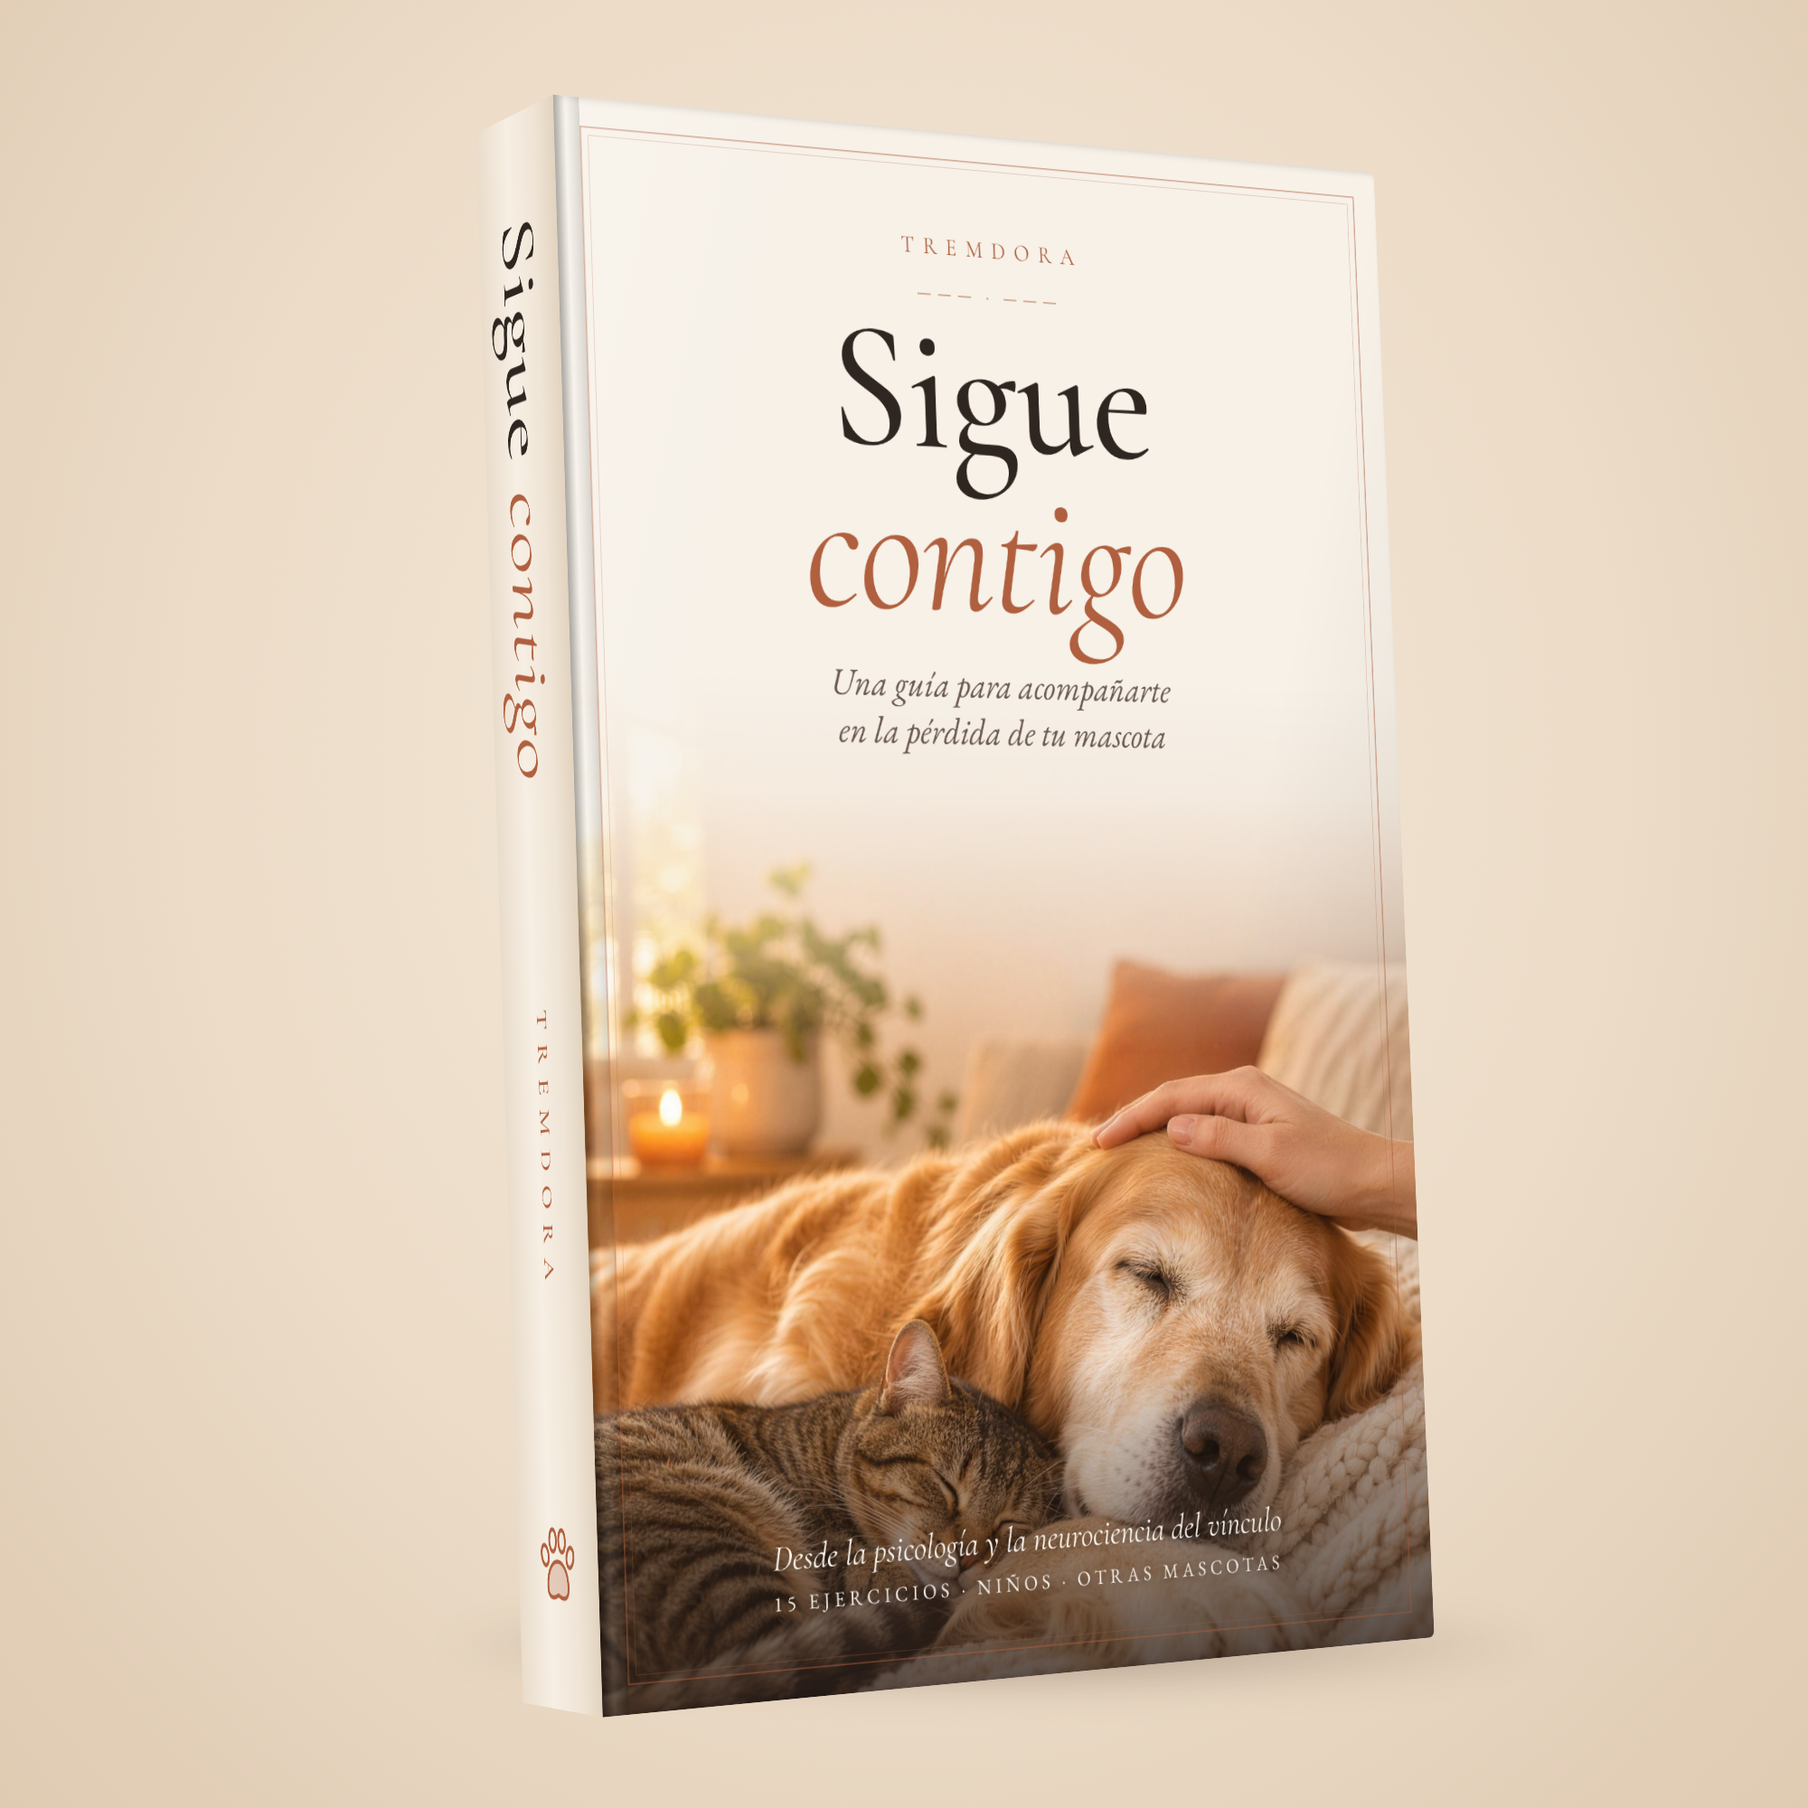
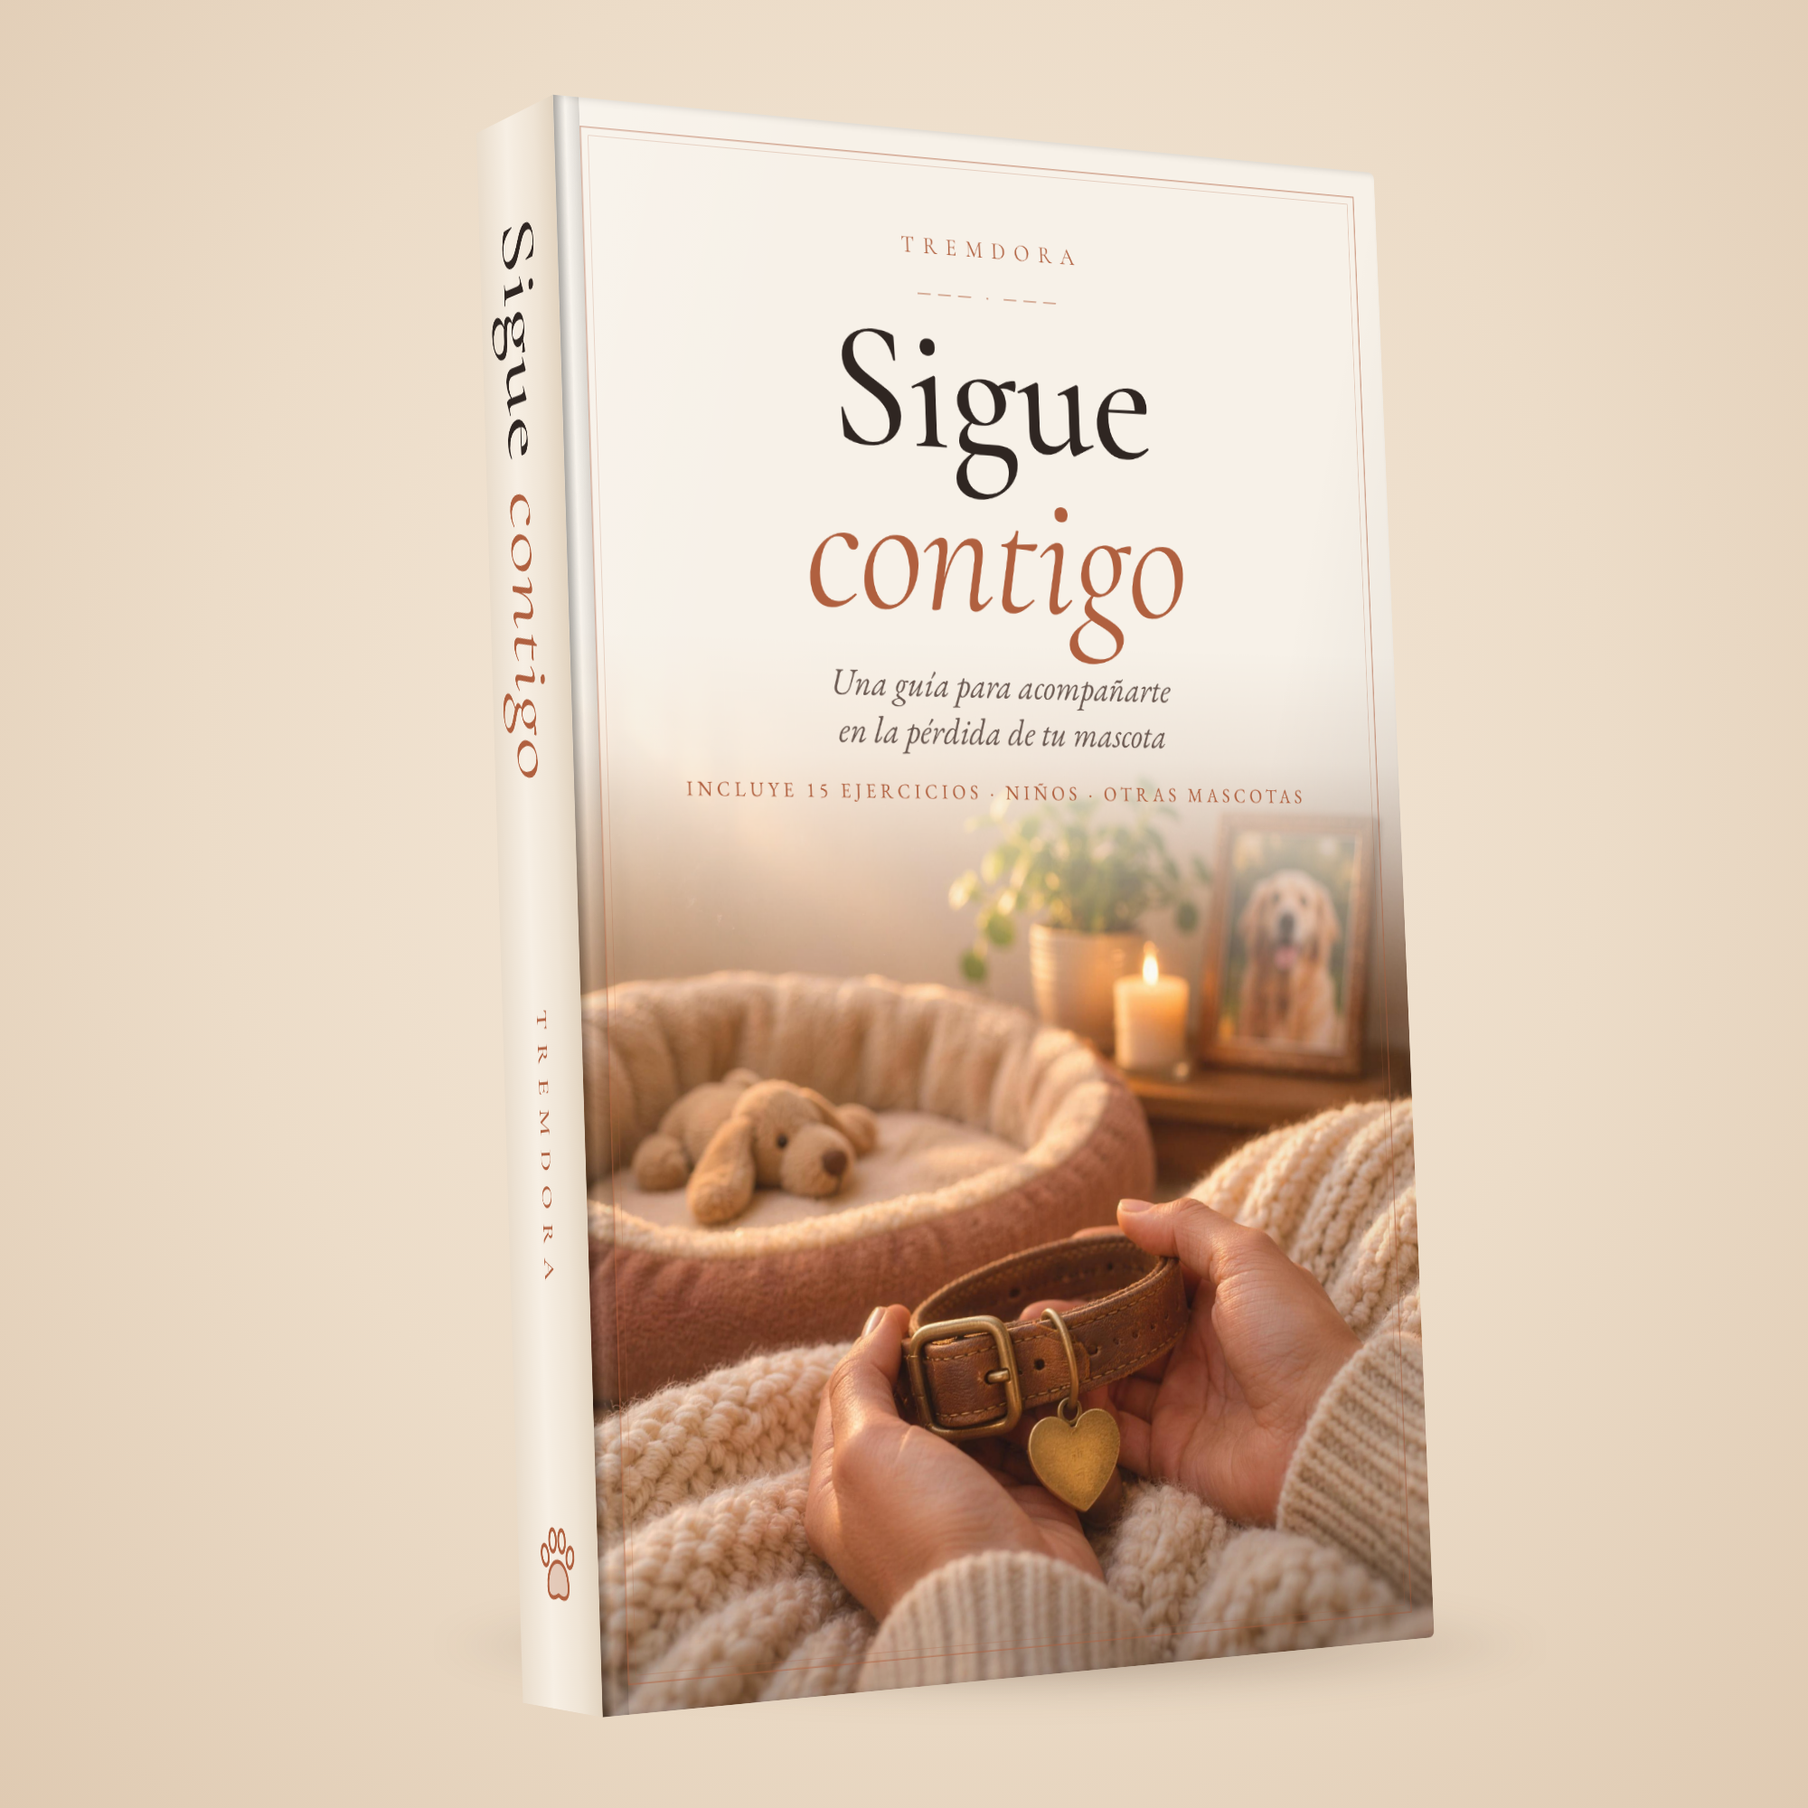
Portada con imagen de pérdida y presentación de venta con textos
Claude-Session: https://claude.ai/code/session_01XQXw8XWJq1jnxz4Tfmqjqq

Changed region(s): [[0.31, 0.434, 0.806, 0.961]]

diff --git a/ebook/portada/presentacion.html b/ebook/portada/presentacion.html
@@ -1,0 +1,85 @@
+<!doctype html>
+<html lang="es">
+<head>
+<meta charset="utf-8">
+<title>Presentación de venta · Sigue contigo</title>
+<link href="https://fonts.googleapis.com/css2?family=Cormorant+Garamond:ital,wght@0,500;0,600;1,400;1,500&family=EB+Garamond:ital,wght@0,400;0,500;0,600;1,400&display=swap" rel="stylesheet">
+<style>
+  :root { --ink:#2f2622; --soft:#6b5a52; --accent:#b0603f; --accent2:#9a4f31; --paper:#f7f1e8; }
+  html,body { margin:0; }
+  .stage { width:2000px; height:2000px; position:relative; overflow:hidden; font-family:'EB Garamond',serif; color:var(--ink); background:var(--paper); }
+  .bgphoto { position:absolute; inset:-60px; background:url('foto.png') center/cover; filter: blur(26px) saturate(.9); opacity:.42; }
+  .veil { position:absolute; inset:0; background:
+      radial-gradient(ellipse at 28% 55%, rgba(247,241,232,.15) 0%, rgba(247,241,232,.55) 45%, rgba(247,241,232,.9) 100%),
+      linear-gradient(90deg, rgba(247,241,232,0) 35%, rgba(247,241,232,.82) 56%, rgba(247,241,232,.94) 100%); }
+  .paws { position:absolute; inset:0; opacity:.10; }
+  .frame { position:absolute; inset:40px; border:2px solid rgba(176,96,63,.45); }
+  .book { position:absolute; left:120px; top:230px; width:850px; filter: drop-shadow(30px 40px 40px rgba(60,38,25,.35)); }
+  .floor { position:absolute; left:150px; top:1640px; width:860px; height:90px; border-radius:50%;
+           background: radial-gradient(ellipse, rgba(70,45,30,.35), rgba(70,45,30,0) 70%); filter: blur(14px); }
+
+  .col { position:absolute; left:1090px; top:150px; width:810px; }
+  .kicker { display:inline-block; font-size:27px; letter-spacing:.2em; white-space:nowrap; text-transform:uppercase; color:#fff; background:var(--accent); padding:12px 26px; border-radius:40px; }
+  h1 { font-family:'Cormorant Garamond',serif; font-weight:600; font-size:112px; line-height:.98; margin:44px 0 0; letter-spacing:-1px; }
+  h1 em { color:var(--accent); font-weight:500; }
+  .lead { font-size:43px; line-height:1.3; color:var(--soft); margin:32px 0 0; font-style:italic; }
+  ul { list-style:none; padding:0; margin:46px 0 0; }
+  li { display:flex; gap:22px; align-items:flex-start; font-size:42px; line-height:1.22; margin-bottom:26px; }
+  li svg { flex:0 0 46px; margin-top:4px; }
+  li b { font-weight:600; }
+  .badges { display:flex; gap:18px; margin-top:44px; }
+  .badge { flex:1; text-align:center; border:2px solid rgba(176,96,63,.5); border-radius:22px; padding:16px 8px 14px; background:rgba(255,255,255,.55); }
+  .badge .n { font-family:'Cormorant Garamond',serif; font-size:66px; font-weight:600; color:var(--accent); line-height:1; }
+  .badge .l { font-size:28px; letter-spacing:.08em; text-transform:uppercase; color:var(--soft); margin-top:6px; }
+  .cta { display:inline-flex; align-items:center; gap:20px; margin-top:48px; background:linear-gradient(180deg, var(--accent), var(--accent2)); color:#fff;
+         font-size:48px; font-weight:600; padding:26px 56px; border-radius:60px; box-shadow: 0 16px 30px rgba(154,79,49,.35); letter-spacing:.02em; }
+  .note { font-size:27px; color:var(--soft); margin-top:22px; letter-spacing:.03em; }
+
+  .quote { position:absolute; left:110px; bottom:100px; width:880px; text-align:center; font-family:'Cormorant Garamond',serif; font-style:italic; font-size:50px; line-height:1.25; color:var(--ink); }
+  .quote small { display:block; font-family:'EB Garamond',serif; font-style:normal; font-size:28px; letter-spacing:.3em; color:var(--accent); margin-top:14px; text-transform:uppercase; }
+</style>
+</head>
+<body>
+<div class="stage" id="stage">
+  <div class="bgphoto"></div>
+  <div class="veil"></div>
+  <svg class="paws" viewBox="0 0 2000 2000" aria-hidden="true">
+    <defs><g id="pw" fill="#b0603f"><path d="M-9,6 C-9,-1 -4,-4 0,-4 C4,-4 9,-1 9,6 C9,10 5,11 0,9 C-5,11 -9,10 -9,6 Z"/>
+      <ellipse cx="-11" cy="-6" rx="3" ry="4" transform="rotate(-20 -11 -6)"/><ellipse cx="-4" cy="-12" rx="3" ry="4.3"/>
+      <ellipse cx="4" cy="-12" rx="3" ry="4.3"/><ellipse cx="11" cy="-6" rx="3" ry="4" transform="rotate(20 11 -6)"/></g></defs>
+    <use href="#pw" transform="translate(1180 1880) rotate(-30) scale(2.2)"/><use href="#pw" transform="translate(1300 1800) rotate(-30) scale(2.2)"/>
+    <use href="#pw" transform="translate(1420 1890) rotate(-30) scale(2.2)"/><use href="#pw" transform="translate(1540 1810) rotate(-30) scale(2.2)"/>
+    <use href="#pw" transform="translate(1660 1900) rotate(-30) scale(2.2)"/><use href="#pw" transform="translate(1780 1820) rotate(-30) scale(2.2)"/>
+  </svg>
+  <div class="frame"></div>
+  <div class="floor"></div>
+  <img class="book" src="libro3d.png" alt="">
+
+  <div class="col">
+    <div class="kicker">Guía digital · Descarga inmediata</div>
+    <h1>Su ausencia duele.<br><em>Su amor se queda.</em></h1>
+    <p class="lead">La guía que pone palabras a lo que sientes y te acompaña, paso a paso, a convertir el dolor en recuerdo.</p>
+    <ul>
+      <li><svg viewBox="0 0 24 24" width="46" height="46"><circle cx="12" cy="12" r="11" fill="#b0603f"/><path d="M7 12.5l3.2 3.2L17 9" fill="none" stroke="#fff" stroke-width="2.4" stroke-linecap="round" stroke-linejoin="round"/></svg>
+        <span><b>Por qué duele tanto</b> y por qué no estás exagerando</span></li>
+      <li><svg viewBox="0 0 24 24" width="46" height="46"><circle cx="12" cy="12" r="11" fill="#b0603f"/><path d="M7 12.5l3.2 3.2L17 9" fill="none" stroke="#fff" stroke-width="2.4" stroke-linecap="round" stroke-linejoin="round"/></svg>
+        <span><b>Cómo soltar la culpa</b> si tuviste que tomar la decisión</span></li>
+      <li><svg viewBox="0 0 24 24" width="46" height="46"><circle cx="12" cy="12" r="11" fill="#b0603f"/><path d="M7 12.5l3.2 3.2L17 9" fill="none" stroke="#fff" stroke-width="2.4" stroke-linecap="round" stroke-linejoin="round"/></svg>
+        <span><b>Cómo explicárselo a tus hijos</b> según su edad</span></li>
+      <li><svg viewBox="0 0 24 24" width="46" height="46"><circle cx="12" cy="12" r="11" fill="#b0603f"/><path d="M7 12.5l3.2 3.2L17 9" fill="none" stroke="#fff" stroke-width="2.4" stroke-linecap="round" stroke-linejoin="round"/></svg>
+        <span><b>Cómo ayudar a tus otras mascotas</b> a superar la pérdida</span></li>
+    </ul>
+    <div class="badges">
+      <div class="badge"><div class="n">57</div><div class="l">páginas</div></div>
+      <div class="badge"><div class="n">15</div><div class="l">ejercicios</div></div>
+      <div class="badge"><div class="n">PDF</div><div class="l">móvil y tablet</div></div>
+    </div>
+    <div class="cta">Descárgalo hoy
+      <svg viewBox="0 0 24 24" width="44" height="44" fill="none" stroke="#fff" stroke-width="2.4" stroke-linecap="round" stroke-linejoin="round"><path d="M5 12h14M13 6l6 6-6 6"/></svg></div>
+    <div class="note">Basada en la psicología del duelo y la neurociencia del vínculo</div>
+  </div>
+
+  <div class="quote">«No la has perdido. La llevas contigo.»<small>Tremdora</small></div>
+</div>
+</body>
+</html>

diff --git a/ebook/portada/libro3d.html b/ebook/portada/libro3d.html
@@ -1,0 +1,57 @@
+<!doctype html>
+<html lang="es">
+<head>
+<meta charset="utf-8">
+<title>Mockup · Sigue contigo</title>
+<link href="https://fonts.googleapis.com/css2?family=Cormorant+Garamond:ital,wght@0,500;1,400&display=swap" rel="stylesheet">
+<style>
+  html,body { margin:0; background:transparent; }
+  .stage { width:2000px; height:2000px; position:relative; overflow:hidden;
+    background: radial-gradient(ellipse at 50% 42%, #f6eadb 0%, #ecdcc8 55%, #dfcab2 100%); }
+  .shadow { position:absolute; left:470px; top:1760px; width:1250px; height:120px; border-radius:50%;
+    background: radial-gradient(ellipse at center, rgba(70,45,30,.42), rgba(70,45,30,0) 70%); filter: blur(18px); }
+  .scene { position:absolute; left:50%; top:50%; perspective: 5200px; transform: translate(-50%,-50%); width:1050px; height:1680px; }
+  .book { position:absolute; inset:0; transform-style: preserve-3d; transform: translateX(70px) rotateY(30deg) rotateX(4deg); }
+  .face { position:absolute; backface-visibility:hidden; }
+  /* Grosor del libro: 120px */
+  .front { width:1050px; height:1680px; transform: translateZ(95px); background:url('portada_final.png') center/cover; border-radius:0 8px 8px 0;
+    box-shadow: inset 6px 0 10px rgba(0,0,0,.18); }
+  .front::after { content:''; position:absolute; inset:0; border-radius:0 8px 8px 0;
+    background: linear-gradient(105deg, rgba(255,255,255,.18) 0%, rgba(255,255,255,0) 22%, rgba(0,0,0,0) 70%, rgba(0,0,0,.10) 100%); }
+  .hinge { position:absolute; left:0; top:0; width:30px; height:1680px; transform: translateZ(95.5px);
+    background: linear-gradient(90deg, rgba(0,0,0,.20), rgba(255,255,255,.10) 45%, rgba(0,0,0,.12)); }
+  .spine { width:190px; height:1680px; left:-95px; transform: rotateY(-90deg) translateZ(0px) ; transform-origin:center;
+    background: linear-gradient(90deg, #e9dccb 0%, #f7efe4 40%, #efe4d5 75%, #e2d3bf 100%);
+    display:flex; flex-direction:column; align-items:center; justify-content:space-between; padding:110px 0 110px; box-sizing:border-box; }
+  .spine .title { writing-mode: vertical-rl; font-family:'Cormorant Garamond',serif; font-size:118px; color:#2f2622; letter-spacing:2px; white-space:nowrap; }
+  .spine .title em { color:#b0603f; font-style:italic; }
+  .spine .brand { writing-mode: vertical-rl; font-family:'Cormorant Garamond',serif; font-size:34px; letter-spacing:.4em; color:#b0603f; }
+  .pages { width:190px; height:1660px; top:10px; left:945px; transform: rotateY(90deg);
+    background: repeating-linear-gradient(90deg, #fbf8f2 0 3px, #eae2d5 3px 4px); }
+  .topedge { width:1038px; height:190px; top:-95px; transform: rotateX(90deg);
+    background: repeating-linear-gradient(0deg, #fbf8f2 0 3px, #e8dfd1 3px 4px); }
+</style>
+</head>
+<body>
+<div class="stage" id="stage" style="background:transparent">
+  
+  <div class="scene">
+    <div class="book">
+      <div class="face topedge"></div>
+      <div class="face pages"></div>
+      <div class="face spine">
+                <div class="title">Sigue <em>contigo</em></div>
+        <div class="brand">TREMDORA</div>
+        <svg viewBox="-16 -18 32 30" width="86" fill="none" stroke="#b0603f" stroke-width="1.6">
+          <path d="M-9,6 C-9,-1 -4,-4 0,-4 C4,-4 9,-1 9,6 C9,10 5,11 0,9 C-5,11 -9,10 -9,6 Z" fill="#b0603f" fill-opacity=".25"/>
+          <ellipse cx="-11" cy="-6" rx="3" ry="4" transform="rotate(-20 -11 -6)"/><ellipse cx="-4" cy="-12" rx="3" ry="4.3"/>
+          <ellipse cx="4" cy="-12" rx="3" ry="4.3"/><ellipse cx="11" cy="-6" rx="3" ry="4" transform="rotate(20 11 -6)"/>
+        </svg>
+      </div>
+      <div class="face front"></div>
+      <div class="hinge"></div>
+    </div>
+  </div>
+</div>
+</body>
+</html>

diff --git a/ebook/portada/portada.html b/ebook/portada/portada.html
@@ -8,11 +8,11 @@
   :root { --ink:#2f2622; --soft:#6b5a52; --accent:#b0603f; --paper:#f7f1e8; }
   html,body { margin:0; padding:0; background:var(--paper); }
   .cover { position:relative; width:1600px; height:2560px; overflow:hidden; background:var(--paper); font-family:'EB Garamond',serif; color:var(--ink); }
-  .photo { position:absolute; left:0; right:0; bottom:0; height:1640px; background:url('foto.png') center 62%/cover no-repeat; }
+  .photo { position:absolute; left:0; right:0; bottom:0; height:1700px; background:url('foto.png') center bottom/cover no-repeat; }
   .photo::before { content:''; position:absolute; inset:0 0 auto 0; height:620px;
     background:linear-gradient(to bottom, var(--paper) 0%, rgba(247,241,232,.86) 30%, rgba(247,241,232,.35) 70%, rgba(247,241,232,0) 100%); }
-  .photo::after { content:''; position:absolute; inset:auto 0 0 0; height:520px;
-    background:linear-gradient(to top, rgba(40,30,26,.72), rgba(40,30,26,.35) 55%, rgba(40,30,26,0)); }
+  .photo::after { content:''; position:absolute; inset:auto 0 0 0; height:260px;
+    background:linear-gradient(to top, rgba(40,30,26,.25), rgba(40,30,26,0)); }
   .frame { position:absolute; inset:46px; border:2px solid rgba(176,96,63,.55); pointer-events:none; }
   .frame::after { content:''; position:absolute; inset:12px; border:1px solid rgba(176,96,63,.35); }
   .top { position:absolute; top:170px; left:0; right:0; text-align:center; }
@@ -21,7 +21,7 @@
   h1 { font-family:'Cormorant Garamond',serif; font-weight:500; font-size:300px; line-height:.9; margin:10px 0 0; letter-spacing:-2px; }
   h1 em { display:block; font-style:italic; font-weight:400; color:var(--accent); }
   .sub { font-style:italic; font-size:62px; line-height:1.25; color:var(--soft); margin-top:46px; }
-  .ill { margin-top:38px; }
+  .extra { font-size:34px; letter-spacing:.24em; text-transform:uppercase; color:var(--accent); margin-top:40px; }
   .bottom { position:absolute; left:0; right:0; bottom:130px; text-align:center; color:#fbf6ef; text-shadow:0 2px 16px rgba(0,0,0,.35); }
   .bottom .t1 { font-family:'Cormorant Garamond',serif; font-style:italic; font-size:58px; }
   .bottom .t2 { font-size:34px; letter-spacing:.24em; text-transform:uppercase; margin-top:14px; opacity:.95; }
@@ -36,10 +36,7 @@
     <div class="rule">——— · ———</div>
     <h1>Sigue <em>contigo</em></h1>
     <div class="sub">Una guía para acompañarte<br>en la pérdida de tu mascota</div>
-  </div>
-  <div class="bottom">
-    <div class="t1">Desde la psicología y la neurociencia del vínculo</div>
-    <div class="t2">15 ejercicios · niños · otras mascotas</div>
+    <div class="extra">Incluye 15 ejercicios · niños · otras mascotas</div>
   </div>
 </div>
 </body>

diff --git a/ebook/portada/render.js b/ebook/portada/render.js
@@ -1,4 +1,6 @@
+// Uso: node render.js archivo.html salida.png [selector] [ancho] [alto] [transparente]
 const { chromium } = require('playwright'); const path=require('path');
-(async()=>{ const b=await chromium.launch(); const p=await b.newPage({viewport:{width:1600,height:2560}});
- await p.goto('file://'+path.resolve(__dirname,process.argv[2]),{waitUntil:'networkidle'}); await p.evaluate(()=>document.fonts.ready);
- const sel=process.argv[4]||'body'; await (await p.$(sel)).screenshot({path:process.argv[3]}); await b.close(); })();
+(async()=>{ const [,,file,out,sel='body',w='1600',h='2560',tr]=process.argv;
+ const b=await chromium.launch(); const p=await b.newPage({viewport:{width:+w,height:+h}});
+ await p.goto('file://'+path.resolve(__dirname,file),{waitUntil:'networkidle'}); await p.evaluate(()=>document.fonts.ready);
+ await (await p.$(sel)).screenshot({path:out, omitBackground: !!tr}); await b.close(); })();
